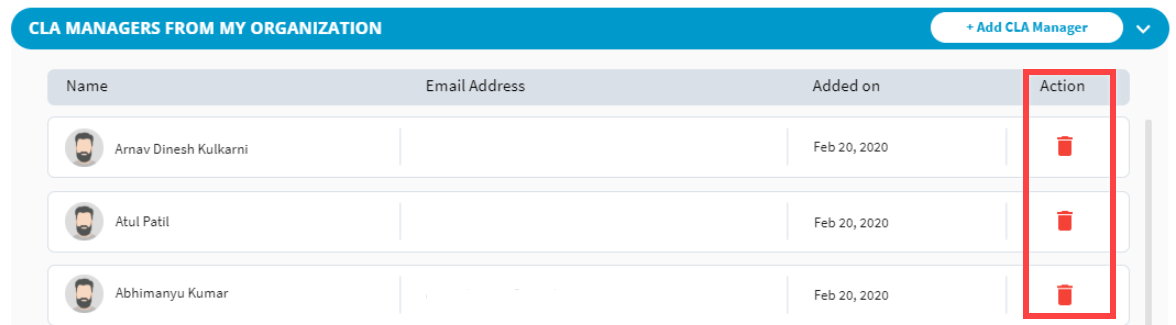
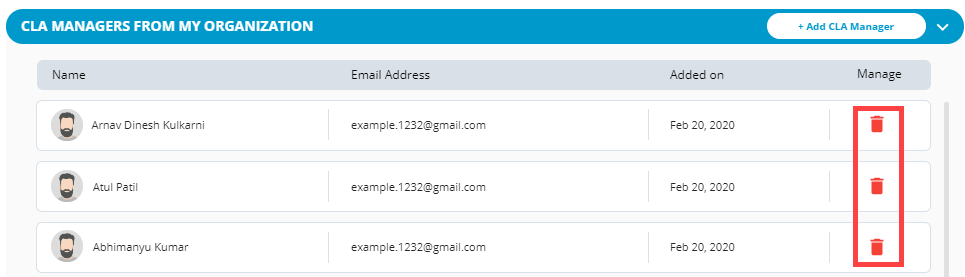
GitBook: [v2] 8 pages and 3 assets modified

diff --git a/communitybridge/easycla/cla-managers/approve-contributors.md b/communitybridge/easycla/cla-managers/approve-contributors.md
@@ -1,73 +1,57 @@
 # Approve Contributors
 
-You can approve contributors by adding their name to the Aprroved List. **Approved Lists** are lists of domain names, email addresses of individuals, GitHub usernames, or GitHub organization names who are authorized to contribute under a signed Corporate CLA. As a CCLA manager, you allow contributions to projects on behalf of your company by using any approved list:
+You can approve contributors by adding their name to the Aprroved List. **Approved Lists** are lists of domain names, email addresses of individuals, GitHub usernames, or GitHub organization names who are authorized to contribute under a signed Corporate CLA.
 
-* Domain Approved List allows entities to contribute under any email address under that domain name.
-* Email Approved List allows entities to contribute under an individual email address.
-* GitHub Approved List allows entities to contribute under a GitHub username.
-* GitHub Organization Approved List allows entities to contribute under a GitHub organization name.
+As a CLA manager, you can:
 
-Each approved list applies to the project for which the company has signed a Corporate CLA. The CLA application checks all the approved lists for allowing contributions to a company project. A contributor only needs to be on one approved list. Contributors can use EasyCLA to send email requests to be associated \(authorized\) with the company.
+* [Add Contributors](approve-contributors.md#add-contributor-s)
+* [Edit a Contributor's Details](approve-contributors.md#edit-a-contributors-details)
+* [Delete a Contributor's Details](approve-contributors.md#delete-a-contributors-details)
 
 _Multiple CCLA managers cannot authorize/approve the same domain and sign a CCLA for the same company._
 
-**Do these steps:**
+### **Add Contributor\(s\)**
 
-1. [Sign in](sign-in-to-the-cla-corporate-console.md).
+1. [Sign in](sign-in-to-the-cla-corporate-console.md) to corporate console.  
+The CLA Corporate Console appears and shows projects your company is associated with.
 
-2. The CLA Corporate Console appears and shows Companies.
+3. Click a **project** of interest.  
+Signed CLAs are displayed under **CLA FOR MY ORGANIZATION**.
 
-3. Click a **company** of interest.
+5. Click **+ Add Contributor\(s\)** under **APPROVED LIST OF CONTRIBUTIONS FROM MY ORGANIZATION**.
 
-4. The CLA Corporate Console appears and shows Signed CLAs under **Projects with Signed CLAs**.
+![](../../../.gitbook/assets/add-contributors%20%281%29.png)
 
-5. Click **MNAGE APPROVED LIST** 
+6. On **Add Contributor\(s\)** window, select an option from the **Select Type** drop-down list, and type details in the filed for the value that you selected.
 
-![manage approved list](../../../.gitbook/assets/manage-approved-list.png)
+{% hint style="info" %}
+**Note:** The option that you select to add a contributor is displayed under **Approval Criteria** column for a value under Approved List of Contributors from my Organization section.
+{% endhint %}
 
-The approved lists appear:
+![](../../../.gitbook/assets/add-contributors-window%20%281%29.png)
 
-![Approved List](../../../.gitbook/assets/approved-list.png)
+3. Click **+Add More** to add other details for a contributor.
 
-6. Decide which approved list you want to edit:
+{% hint style="info" %}
+**Note:** 
 
-* [Domain Approved List , Email Approved List, or GitHub Approved List](approve-contributors.md#domain-whitelist-email-whitelist-or-github-whitelist)
-* [GitHub Organization Approved List](approve-contributors.md#github-organization-whitelist)
+* Domain allows entities to contribute under any email address under that domain name.
+* Email Address allows entities to contribute under an individual email address.
+* GitHub Username allows entities to contribute under a GitHub username.
+* GitHub Organization allows entities to contribute under a GitHub organization name.
 
-## Domain Approved List , Email Approved List, or GitHub Approved List <a id="domain-whitelist-email-whitelist-or-github-whitelist"></a>
+GitHub Organization and GitHub Username are not required while adding contributors to Gerrit projects.
+{% endhint %}
 
-The corresponding Edit _domain/email/github_ approved list dialog lets you add, edit, and delete values to the approved list so that employees \(developers\) can be associated to the company. An example domain name value is joesbikes.com. A wildcard approves/authorizes the domain and all subdomains, for example: \*.joesbikes.com or \*joesbikes.com would authorize joes.bikes.com, shop.joesbikes.com, and blog.joesbikes.com.
+4. Click **Save**.
 
-**Note:** To remove an entry from the approved list, click **X** next to the item, and click **SAVE**.
+### Edit a Contributor's Details
 
-1. Click the edit icon\( **pencil** \) next to the approved list that you want to edit:
-2. Click **ADD DOMAIN/EMAIL/GITHUB**, enter a **domain name**, **email address**, or **GitHub username** for the employees for who you want to authorize, and click **SAVE APPROVED LIST**. For example:
+Click ![](https://firebasestorage.googleapis.com/v0/b/gitbook-28427.appspot.com/o/assets%2F-M2DCN9UgoRgMEkgnLyP%2F-M9r8HAsE33veE1f8-jp%2F-M9rgXW5MmdCw4zlarnJ%2Fedit%20icon.png?alt=media&token=dc04f1ad-302e-49e8-983e-dacbaa49f029) next to a contributor's row, make edits, and click **Save**.
 
-![](../../../.gitbook/assets/email-approved-list.png)
+### Delete a Contributor's Details
 
-Your entries appear in their corresponding approved lists.
+Click ![](https://firebasestorage.googleapis.com/v0/b/gitbook-28427.appspot.com/o/assets%2F-M2DCN9UgoRgMEkgnLyP%2F-M9WNn7lqBje4DX2Irn-%2F-M9Y5z1DnSglCZbaXzg0%2Fdelete%20icon.png?alt=media&token=2333c400-d6bf-4c6e-93e9-52d4c00113d9) under Manage column on a contributor's row to delete the contributor's details.
 
-## GitHub Organization Approved List <a id="github-organization-whitelist"></a>
-
-The GitHub Organization Approved List lets you add or remove organizations from an approved list so that company employees can contribute to project—the CLA service checks the GitHub organizations that the user belongs to.
-
-_**Requirements:**_
-
-Each member of your organization must ensure that these items are Public in their GitHub Profile:
-
-* Their membership with the organization. Each Private member should follow this [procedure](https://help.github.com/en/articles/publicizing-or-hiding-organization-membership) to make their membership Public.
-* The associated email address for the organization member. Each Private member should make their associated email address Public \(members can have multiple emails in their Profile, so they must select the appropriate one\).
-
-**Do these steps:**
-
-1. Click the edit icon \(**pencil\)** next to Github Org Approved List.  
-    The Edit Github Organization Approved List dialog appears.
-
-![GitHub Org Approved List](../../../.gitbook/assets/github-org-approved-list.png)
-
-**Note:** Click **CONNECT GITHUB** if the organization you want to authorize is not listed in the dialog. The Add GitHub Organization dialog appears and lets you specify the GitHub organization.
-
-2.Type a GitHub organization name in the field, select from drop-down, and click **SAVE APPROVED LIST** or click ![](../../../.gitbook/assets/close-icon.png) next to the organization that you want to add/remove, respectively.
-
-Your organizations appear in their organization approved list.
+![](https://gblobscdn.gitbook.com/assets%2F-M2DCN9UgoRgMEkgnLyP%2F-M9r8HAsE33veE1f8-jp%2F-M9rhLvJwQAzvisvYehP%2Fdelete%20contributor.png?alt=media&token=e2a9c456-ea67-4b0b-85c5-594306cede09)
 

diff --git a/communitybridge/easycla/cla-managers/add-or-delete-a-cla-manager.md b/communitybridge/easycla/cla-managers/add-or-delete-a-cla-manager.md
@@ -4,9 +4,14 @@
 **Important:** If a project has one CLA manager, the person's details cannot be deleted.
 {% endhint %}
 
+As a CLA manager, you can:
+
+* [Add a CLA manager](add-or-delete-a-cla-manager.md#to-add-a-cla-manager)
+* [Delete a CLA manager](add-or-delete-a-cla-manager.md#to-delete-a-cla-manager)
+
 ### To Add a CLA Manager:
 
-1. Sign in to the corporate console.
+1. [Sign in](sign-in-to-the-cla-corporate-console.md) to the corporate console.
 
 2. Navigate to the project for which you want to add CLA managers.
 
@@ -25,5 +30,9 @@
 * **If the user, being added, has LFID:** A screen appears confirming that the user is successfully added as a CLA manager.  ![](https://firebasestorage.googleapis.com/v0/b/gitbook-28427.appspot.com/o/assets%2F-M2DCN9UgoRgMEkgnLyP%2F-M9WNn7lqBje4DX2Irn-%2F-M9Y4JFdjqQX-qRldTsh%2Fcla%20manager%20successfully%20added.png?alt=media&token=d25a15ba-058d-47bd-9524-c10638ba4757)
 * **If the user, being added, doesn't have LFID:** A request is sent to the user's email address with the link to create an LFID. After the user creates an LFID, you must [add](add-or-delete-a-cla-manager.md) the user as a CLA manager. ![](https://firebasestorage.googleapis.com/v0/b/gitbook-28427.appspot.com/o/assets%2F-M2DCN9UgoRgMEkgnLyP%2F-M9WNn7lqBje4DX2Irn-%2F-M9Y4iWqpmrRdH8NjKL5%2Frequest%20sent%20to%20add%20a%20cla%20manager.png?alt=media&token=210185e2-d2d5-4954-b081-daf2dc2752a8)
 
+### To Delete a CLA Manager
 
+Click ![](https://firebasestorage.googleapis.com/v0/b/gitbook-28427.appspot.com/o/assets%2F-M2DCN9UgoRgMEkgnLyP%2F-M9WNn7lqBje4DX2Irn-%2F-M9Y5z1DnSglCZbaXzg0%2Fdelete%20icon.png?alt=media&token=2333c400-d6bf-4c6e-93e9-52d4c00113d9) under **Manage** column on a CLA manager's row to delete the user. For a single entry, you cannot delete the CLA manager's details.
+
+![Delete CLA Manager](../../../.gitbook/assets/delete-cla-manager.png)
 

diff --git a/SUMMARY.md b/SUMMARY.md
@@ -217,7 +217,6 @@
       * [Edit the Company Name and Manager Details](communitybridge/easycla/cla-managers/edit-the-company-name-and-manager-details.md)
       * [View Employee Acknowledgements](communitybridge/easycla/cla-managers/view-employee-acknowledgements.md)
     * [CLA Manager Designee and CLA Signatories](communitybridge/easycla/cla-manager-designee/README.md)
-      * [Sign In to the CLA Corporate Console](communitybridge/easycla/cla-manager-designee/sign-in-to-the-cla-corporate-console.md)
       * [Sign a Corporate CLA on behalf of the Company](communitybridge/easycla/cla-manager-designee/sign-a-corporate-cla.md)
       * [Review and Sign a Corporate CLA by Request](communitybridge/easycla/cla-manager-designee/review-and-sign-a-corporate-cla-by-request.md)
   * [Admin Dashboard](communitybridge/admin-dashboard/README.md)

diff --git a/communitybridge/easycla/cla-managers/sign-in-to-the-cla-corporate-console.md b/communitybridge/easycla/cla-managers/sign-in-to-the-cla-corporate-console.md
@@ -1,6 +1,6 @@
 # Sign In to the CLA Corporate Console
 
-As a CCLA manager, sign in to the CLA Corporate Console to add your company to a project, sign CLA, and do management tasks.
+Sign in to the corporate console before you can sign a CLA, and perform other activities.
 
 **Do these steps**:
 
@@ -9,7 +9,7 @@ As a CCLA manager, sign in to the CLA Corporate Console to add your company to a
 
    The LF CLA sign-in dialog appears.
 
-3. Enter your credentials as the CCLA manager and click **Sign In**.
+3. Enter your credentials and click **Sign In**.
 
    The CLA Corporate Console appears and shows companies that you are associated with.
 

diff --git a/communitybridge/easycla/cla-manager-designee/sign-a-corporate-cla.md b/communitybridge/easycla/cla-manager-designee/sign-a-corporate-cla.md
@@ -10,7 +10,7 @@ As a CLA manager designee or CLA signatory, you must be authorized by your compa
 
 **Do these steps:**
 
-1. [Sign in](sign-in-to-the-cla-corporate-console.md) to the corporate console as a CLA manager designee.  
+1. [Sign in](../cla-managers/sign-in-to-the-cla-corporate-console.md) to the corporate console as a CLA manager designee.  
 The CLA Corporate Console appears and shows the projects.
 
 2. Navigate to the project for which you are  identified as the initial CLA manager and want to sign CLA. The following screen is displayed under EasyCLA tab:  

diff --git a/communitybridge/easycla/cla-managers/sign-corporate-cla-for-a-company.md b/communitybridge/easycla/cla-managers/sign-corporate-cla-for-a-company.md
@@ -8,7 +8,7 @@ As a CLA manager you must be sign a Corporate CLA before you can add other CLA m
 
 **Do these steps:**
 
-1. [Sign in](../cla-manager-designee/sign-in-to-the-cla-corporate-console.md) to the corporate console as a CLA manager designee.  
+1. [Sign in]() to the corporate console as a CLA manager designee.  
 The CLA Corporate Console appears and shows the projects.
 
 2. Navigate to the EasyCLA tab of project for which you are want to sign CLA, abd click **Start the CLA Process**.

diff --git a/communitybridge/communitybridge-portal/projects/easycla/how-to-add-or-delete-a-cla-manager.md b/communitybridge/communitybridge-portal/projects/easycla/how-to-add-or-delete-a-cla-manager.md
@@ -29,5 +29,3 @@ description: >-
 
 Click ![](../../../../.gitbook/assets/delete-icon.png) under **Action** column on a CLA manager's row to delete the user. For a single entry, you cannot delete the CLA manager's details.
 
-![](../../../../.gitbook/assets/delete-cla-manager.png)
-
